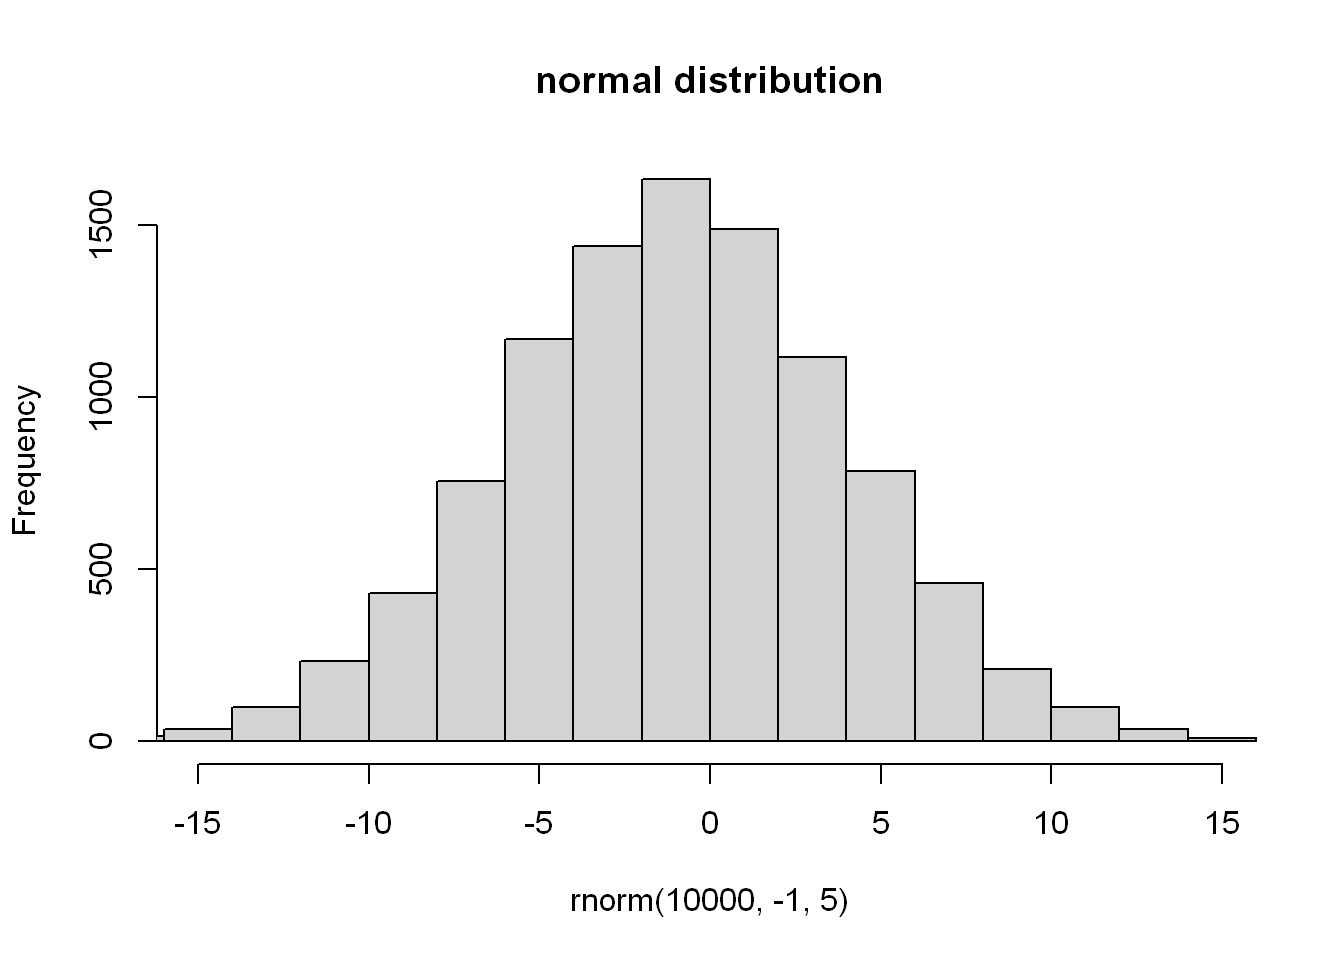
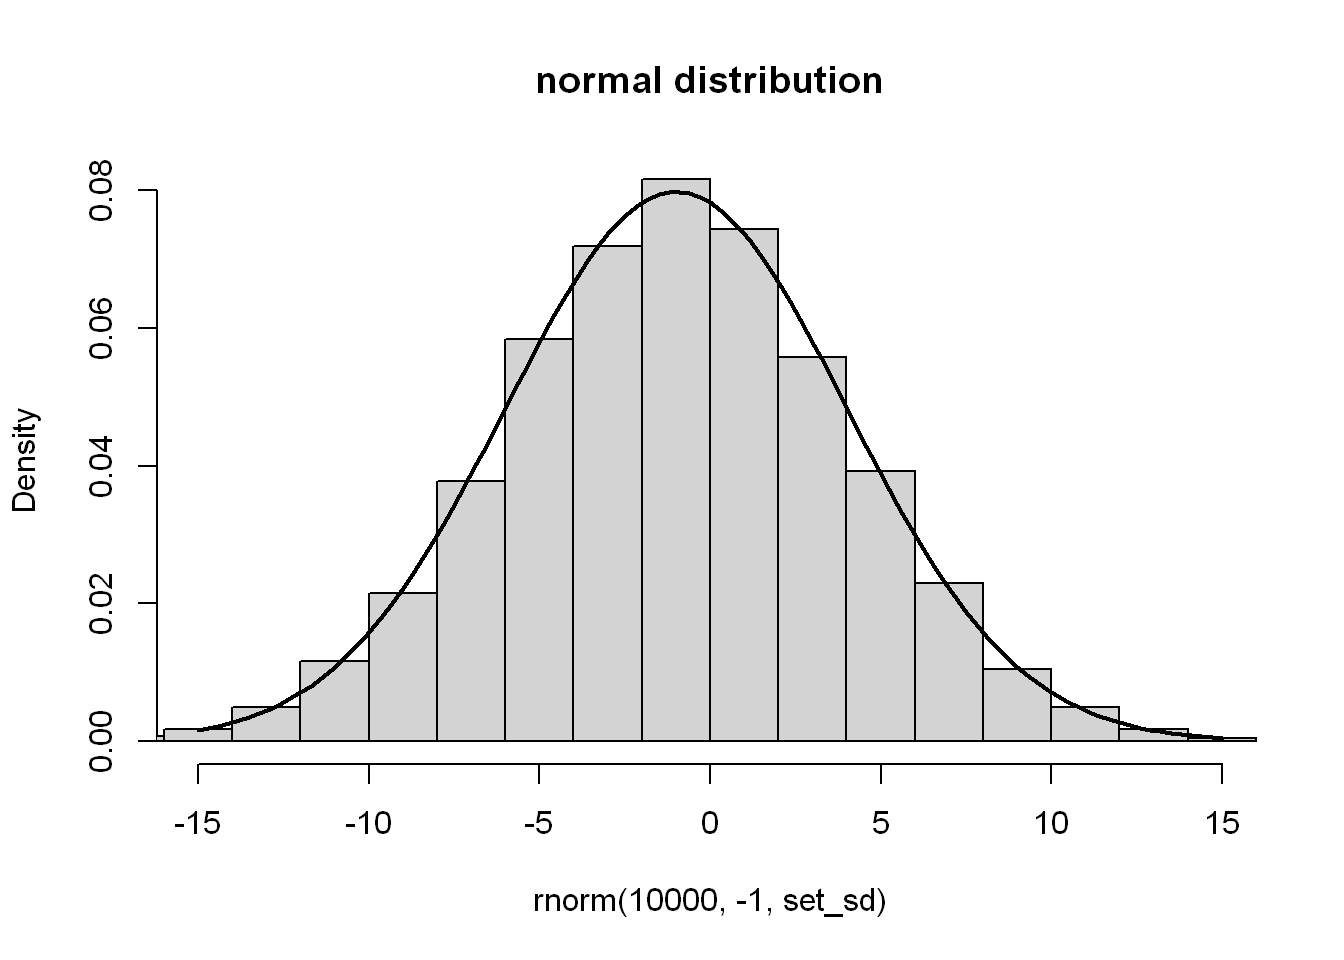
Update 2.5 response with standard deviationdiscussion

diff --git a/docs/numeric.html b/docs/numeric.html
@@ -411,41 +411,109 @@ pre > code.sourceCode > span > a:first-child::before { text-decoration: underlin
 </div>
 <p>Uh-oh, time to learn some maths (nice, actually). Here we go:</p>
 <div class="cell">
-<div class="sourceCode cell-code" id="cb24"><pre class="sourceCode r code-with-copy"><code class="sourceCode r"><span id="cb24-1"><a href="#cb24-1" aria-hidden="true" tabindex="-1"></a><span class="fu">hist</span>(</span>
-<span id="cb24-2"><a href="#cb24-2" aria-hidden="true" tabindex="-1"></a>  <span class="fu">rnorm</span>(<span class="dv">10000</span>, <span class="sc">-</span><span class="dv">1</span>, <span class="dv">5</span>), </span>
-<span id="cb24-3"><a href="#cb24-3" aria-hidden="true" tabindex="-1"></a>     <span class="at">main =</span> <span class="st">"normal distribution"</span>,</span>
-<span id="cb24-4"><a href="#cb24-4" aria-hidden="true" tabindex="-1"></a>     <span class="at">xlim =</span> <span class="fu">c</span>(<span class="sc">-</span><span class="dv">15</span>, <span class="dv">15</span>)</span>
-<span id="cb24-5"><a href="#cb24-5" aria-hidden="true" tabindex="-1"></a>)</span></code><button title="Copy to Clipboard" class="code-copy-button"><i class="bi"></i></button></pre></div>
+<div class="sourceCode cell-code" id="cb24"><pre class="sourceCode r code-with-copy"><code class="sourceCode r"><span id="cb24-1"><a href="#cb24-1" aria-hidden="true" tabindex="-1"></a>set_sd <span class="ot">&lt;-</span> <span class="dv">5</span></span>
+<span id="cb24-2"><a href="#cb24-2" aria-hidden="true" tabindex="-1"></a></span>
+<span id="cb24-3"><a href="#cb24-3" aria-hidden="true" tabindex="-1"></a><span class="fu">hist</span>(</span>
+<span id="cb24-4"><a href="#cb24-4" aria-hidden="true" tabindex="-1"></a>  <span class="fu">rnorm</span>(<span class="dv">10000</span>, <span class="sc">-</span><span class="dv">1</span>, set_sd), </span>
+<span id="cb24-5"><a href="#cb24-5" aria-hidden="true" tabindex="-1"></a>  <span class="at">main =</span> <span class="st">"normal distribution"</span>,</span>
+<span id="cb24-6"><a href="#cb24-6" aria-hidden="true" tabindex="-1"></a>  <span class="at">xlim =</span> <span class="fu">c</span>(<span class="sc">-</span><span class="dv">3</span> <span class="sc">*</span> set_sd, <span class="dv">3</span> <span class="sc">*</span> set_sd),</span>
+<span id="cb24-7"><a href="#cb24-7" aria-hidden="true" tabindex="-1"></a>  <span class="at">probability =</span> <span class="cn">TRUE</span></span>
+<span id="cb24-8"><a href="#cb24-8" aria-hidden="true" tabindex="-1"></a>)</span>
+<span id="cb24-9"><a href="#cb24-9" aria-hidden="true" tabindex="-1"></a></span>
+<span id="cb24-10"><a href="#cb24-10" aria-hidden="true" tabindex="-1"></a>x <span class="ot">&lt;-</span> <span class="fu">seq</span>(<span class="sc">-</span><span class="dv">3</span> <span class="sc">*</span> set_sd, <span class="dv">3</span> <span class="sc">*</span> set_sd, <span class="at">length.out=</span><span class="dv">101</span>) </span>
+<span id="cb24-11"><a href="#cb24-11" aria-hidden="true" tabindex="-1"></a><span class="fu">lines</span>(x, <span class="fu">dnorm</span>(x,<span class="sc">-</span><span class="dv">1</span>, set_sd), <span class="at">lwd=</span><span class="dv">2</span>) </span></code><button title="Copy to Clipboard" class="code-copy-button"><i class="bi"></i></button></pre></div>
 <div class="cell-output-display">
 <p><img src="numeric_files/figure-html/rnorm-1.png" class="img-fluid" width="672"></p>
 </div>
 </div>
-<p>So, as I understand it here the mean, median and mode<a href="#fn1" class="footnote-ref" id="fnref1" role="doc-noteref"><sup>1</sup></a> of the distribution should approximate to the second argument, <span class="math inline">\(-1\)</span>. Then just over <span class="math inline">\(2/3\)</span> should be within <span class="math inline">\(5\)</span> (the standard deviation) either side of that, and <em>almost</em> all should be with <span class="math inline">\(15\)</span> (3 standard deviations). I used <code>xlim</code> to cut the axis to <span class="math inline">\(-15\)</span> to <span class="math inline">\(15\)</span>, but you can see the edge of remaining bins creep in.</p>
+<p>So, as I understand it here the mean, median and mode<a href="#fn1" class="footnote-ref" id="fnref1" role="doc-noteref"><sup>1</sup></a> of the distribution should approximate to the second argument, <span class="math inline">\(-1\)</span>. Then just over <span class="math inline">\(2/3\)</span> should be within <span class="math inline">\(5\)</span> (the standard deviation) either side of that, and <em>almost</em> all should be with <span class="math inline">\(15\)</span> (3 standard deviations). I used <code>xlim</code> to cut the axis to <span class="math inline">\(-15\)</span> to <span class="math inline">\(15\)</span>, but you can see the edge of remaining bins creep in. Aha, like I said, I don’t know statistics.</p>
+<p>I need to go on a tangent and finally find out what standard deviation is.</p>
 <div class="cell">
-<div class="sourceCode cell-code" id="cb25"><pre class="sourceCode r code-with-copy"><code class="sourceCode r"><span id="cb25-1"><a href="#cb25-1" aria-hidden="true" tabindex="-1"></a><span class="fu">hist</span>(</span>
-<span id="cb25-2"><a href="#cb25-2" aria-hidden="true" tabindex="-1"></a>  <span class="fu">runif</span>(<span class="dv">10000</span>, <span class="dv">0</span>, <span class="dv">1</span>),</span>
-<span id="cb25-3"><a href="#cb25-3" aria-hidden="true" tabindex="-1"></a>  <span class="at">col =</span> <span class="fu">c</span>(<span class="st">"red"</span>, <span class="st">"orange"</span>, <span class="st">"green"</span>, <span class="st">"yellow"</span>, <span class="st">"blue"</span>, <span class="st">"purple"</span>, <span class="st">"violet"</span>),</span>
-<span id="cb25-4"><a href="#cb25-4" aria-hidden="true" tabindex="-1"></a>  <span class="at">breaks =</span> <span class="dv">7</span> <span class="sc">*</span> <span class="dv">7</span>,</span>
-<span id="cb25-5"><a href="#cb25-5" aria-hidden="true" tabindex="-1"></a>  <span class="at">main =</span> <span class="st">"a uniform rainbow"</span></span>
-<span id="cb25-6"><a href="#cb25-6" aria-hidden="true" tabindex="-1"></a>)</span></code><button title="Copy to Clipboard" class="code-copy-button"><i class="bi"></i></button></pre></div>
+<div class="sourceCode cell-code" id="cb25"><pre class="sourceCode r code-with-copy"><code class="sourceCode r"><span id="cb25-1"><a href="#cb25-1" aria-hidden="true" tabindex="-1"></a><span class="fu">body</span>(sd)</span></code><button title="Copy to Clipboard" class="code-copy-button"><i class="bi"></i></button></pre></div>
+<div class="cell-output cell-output-stdout">
+<pre><code>sqrt(var(if (is.vector(x) || is.factor(x)) x else as.double(x), 
+    na.rm = na.rm))</code></pre>
+</div>
+</div>
+<p>The square root of the variance, hey? The body of <code>var</code> isn’t much help because it calls some C or C++ function. Looking it up, variance is a measure of how dispersed a data set is. Standard deviation is too, but perhaps sits at a more convenient range of values for doing other things with the value. Variance is the mean of the squares of the distance from the mean. Ah, I’m going to need to try that to figure it out.</p>
+<div class="cell">
+<div class="sourceCode cell-code" id="cb27"><pre class="sourceCode r code-with-copy"><code class="sourceCode r"><span id="cb27-1"><a href="#cb27-1" aria-hidden="true" tabindex="-1"></a><span class="fu">var</span>(<span class="dv">1</span><span class="sc">:</span><span class="dv">100</span>)</span></code><button title="Copy to Clipboard" class="code-copy-button"><i class="bi"></i></button></pre></div>
+<div class="cell-output cell-output-stdout">
+<pre><code>[1] 841.6667</code></pre>
+</div>
+<div class="sourceCode cell-code" id="cb29"><pre class="sourceCode r code-with-copy"><code class="sourceCode r"><span id="cb29-1"><a href="#cb29-1" aria-hidden="true" tabindex="-1"></a>my_var <span class="ot">&lt;-</span> <span class="cf">function</span>(x) <span class="fu">mean</span>((x <span class="sc">-</span> <span class="fu">mean</span>(x))<span class="sc">^</span><span class="dv">2</span>)</span>
+<span id="cb29-2"><a href="#cb29-2" aria-hidden="true" tabindex="-1"></a></span>
+<span id="cb29-3"><a href="#cb29-3" aria-hidden="true" tabindex="-1"></a><span class="fu">my_var</span>(<span class="dv">1</span><span class="sc">:</span><span class="dv">100</span>)</span></code><button title="Copy to Clipboard" class="code-copy-button"><i class="bi"></i></button></pre></div>
+<div class="cell-output cell-output-stdout">
+<pre><code>[1] 833.25</code></pre>
+</div>
+</div>
+<p>I got close, but not quite right, hmmm. Another definition specifies taking the sum of the squares of the distance by mean and dividing by <span class="math inline">\(n - 1\)</span> where n is the number of numbers. So let’s try that instead of the final mean (which would be the sum divided by n).</p>
+<div class="cell">
+<div class="sourceCode cell-code" id="cb31"><pre class="sourceCode r code-with-copy"><code class="sourceCode r"><span id="cb31-1"><a href="#cb31-1" aria-hidden="true" tabindex="-1"></a>my_var2 <span class="ot">&lt;-</span> <span class="cf">function</span>(x) <span class="fu">sum</span>((x <span class="sc">-</span> <span class="fu">mean</span>(x))<span class="sc">^</span><span class="dv">2</span>) <span class="sc">/</span> (<span class="fu">length</span>(x) <span class="sc">-</span> <span class="dv">1</span>)</span>
+<span id="cb31-2"><a href="#cb31-2" aria-hidden="true" tabindex="-1"></a></span>
+<span id="cb31-3"><a href="#cb31-3" aria-hidden="true" tabindex="-1"></a><span class="fu">my_var2</span>(<span class="dv">1</span><span class="sc">:</span><span class="dv">100</span>)</span></code><button title="Copy to Clipboard" class="code-copy-button"><i class="bi"></i></button></pre></div>
+<div class="cell-output cell-output-stdout">
+<pre><code>[1] 841.6667</code></pre>
+</div>
+</div>
+<p>Aha! But there does seem to be two definitions, I’ll have to revisit that. Anyway, so then we just need to take the square root:</p>
+<div class="cell">
+<div class="sourceCode cell-code" id="cb33"><pre class="sourceCode r code-with-copy"><code class="sourceCode r"><span id="cb33-1"><a href="#cb33-1" aria-hidden="true" tabindex="-1"></a>my_sd <span class="ot">&lt;-</span> <span class="cf">function</span>(x) <span class="fu">sqrt</span>(<span class="fu">my_var2</span>(x))</span>
+<span id="cb33-2"><a href="#cb33-2" aria-hidden="true" tabindex="-1"></a></span>
+<span id="cb33-3"><a href="#cb33-3" aria-hidden="true" tabindex="-1"></a><span class="fu">my_sd</span>(<span class="dv">1</span><span class="sc">:</span><span class="dv">100</span>)</span></code><button title="Copy to Clipboard" class="code-copy-button"><i class="bi"></i></button></pre></div>
+<div class="cell-output cell-output-stdout">
+<pre><code>[1] 29.01149</code></pre>
+</div>
+<div class="sourceCode cell-code" id="cb35"><pre class="sourceCode r code-with-copy"><code class="sourceCode r"><span id="cb35-1"><a href="#cb35-1" aria-hidden="true" tabindex="-1"></a><span class="fu">sd</span>(<span class="dv">1</span><span class="sc">:</span><span class="dv">100</span>)</span></code><button title="Copy to Clipboard" class="code-copy-button"><i class="bi"></i></button></pre></div>
+<div class="cell-output cell-output-stdout">
+<pre><code>[1] 29.01149</code></pre>
+</div>
+</div>
+<p>Neat. Okay, it makes sense to me that distance from the mean would be used to present deviation, but I’m not quite what the rest is for. I can see that taking the square resolves negative deviation and the square root at the end somewhat rebalances it. If that were the only goal, then why wouldn’t the absolute differences be used? Something like:</p>
+<div class="cell">
+<div class="sourceCode cell-code" id="cb37"><pre class="sourceCode r code-with-copy"><code class="sourceCode r"><span id="cb37-1"><a href="#cb37-1" aria-hidden="true" tabindex="-1"></a>absolute_deviation <span class="ot">&lt;-</span> <span class="cf">function</span>(x) {</span>
+<span id="cb37-2"><a href="#cb37-2" aria-hidden="true" tabindex="-1"></a>  <span class="fu">mean</span>(<span class="fu">abs</span>(x <span class="sc">-</span> <span class="fu">mean</span>(x)))</span>
+<span id="cb37-3"><a href="#cb37-3" aria-hidden="true" tabindex="-1"></a>}</span>
+<span id="cb37-4"><a href="#cb37-4" aria-hidden="true" tabindex="-1"></a></span>
+<span id="cb37-5"><a href="#cb37-5" aria-hidden="true" tabindex="-1"></a><span class="fu">absolute_deviation</span>(<span class="dv">1</span><span class="sc">:</span><span class="dv">100</span>)</span></code><button title="Copy to Clipboard" class="code-copy-button"><i class="bi"></i></button></pre></div>
+<div class="cell-output cell-output-stdout">
+<pre><code>[1] 25</code></pre>
+</div>
+</div>
+<p>Maybe that could work? Well, apparently it is a thing - <a href="https://en.wikipedia.org/wiki/Average_absolute_deviation">Average Absolute Deviation</a>, but I suppose for now I just have to accept that standard deviation is just that, standard.</p>
+<div class="cell">
+<div class="sourceCode cell-code" id="cb39"><pre class="sourceCode r code-with-copy"><code class="sourceCode r"><span id="cb39-1"><a href="#cb39-1" aria-hidden="true" tabindex="-1"></a>unif_min <span class="ot">&lt;-</span> <span class="sc">-</span><span class="dv">1</span></span>
+<span id="cb39-2"><a href="#cb39-2" aria-hidden="true" tabindex="-1"></a>unif_max <span class="ot">&lt;-</span> <span class="dv">1</span></span>
+<span id="cb39-3"><a href="#cb39-3" aria-hidden="true" tabindex="-1"></a></span>
+<span id="cb39-4"><a href="#cb39-4" aria-hidden="true" tabindex="-1"></a><span class="fu">hist</span>(</span>
+<span id="cb39-5"><a href="#cb39-5" aria-hidden="true" tabindex="-1"></a>  <span class="fu">runif</span>(<span class="dv">10000</span>, unif_min, unif_max),</span>
+<span id="cb39-6"><a href="#cb39-6" aria-hidden="true" tabindex="-1"></a>  <span class="at">col =</span> <span class="fu">c</span>(<span class="st">"red"</span>, <span class="st">"orange"</span>, <span class="st">"green"</span>, <span class="st">"yellow"</span>, <span class="st">"blue"</span>, <span class="st">"purple"</span>, <span class="st">"violet"</span>),</span>
+<span id="cb39-7"><a href="#cb39-7" aria-hidden="true" tabindex="-1"></a>  <span class="at">breaks =</span> <span class="dv">7</span> <span class="sc">*</span> <span class="dv">7</span>,</span>
+<span id="cb39-8"><a href="#cb39-8" aria-hidden="true" tabindex="-1"></a>  <span class="at">main =</span> <span class="st">"a uniform rainbow"</span>,</span>
+<span id="cb39-9"><a href="#cb39-9" aria-hidden="true" tabindex="-1"></a>  <span class="at">probability =</span> <span class="cn">TRUE</span></span>
+<span id="cb39-10"><a href="#cb39-10" aria-hidden="true" tabindex="-1"></a>)</span>
+<span id="cb39-11"><a href="#cb39-11" aria-hidden="true" tabindex="-1"></a></span>
+<span id="cb39-12"><a href="#cb39-12" aria-hidden="true" tabindex="-1"></a>x <span class="ot">&lt;-</span> <span class="fu">seq</span>(unif_min, unif_max, <span class="at">length.out =</span> <span class="dv">10</span>)</span>
+<span id="cb39-13"><a href="#cb39-13" aria-hidden="true" tabindex="-1"></a><span class="fu">lines</span>(x, <span class="fu">dunif</span>(x, unif_min, unif_max), <span class="at">lwd =</span> <span class="dv">2</span>)</span></code><button title="Copy to Clipboard" class="code-copy-button"><i class="bi"></i></button></pre></div>
 <div class="cell-output-display">
 <p><img src="numeric_files/figure-html/runif-1.png" class="img-fluid" width="672"></p>
 </div>
 </div>
 <p>He <em>did</em> say to play with <code>col</code> (colours) and <code>breaks</code> (number of bins). I note that <code>n = 10000</code> seems enough to really see the expected distribution take shape, but it’s not so clear at e.g.&nbsp;<code>n = 1000</code> and especially <code>n = 100</code>. Though even at 10000, as you get more breaks/bins like this, the variation becomes more visible again.</p>
 <div class="cell">
-<div class="sourceCode cell-code" id="cb26"><pre class="sourceCode r code-with-copy"><code class="sourceCode r"><span id="cb26-1"><a href="#cb26-1" aria-hidden="true" tabindex="-1"></a><span class="fu">par</span>(<span class="at">mfrow =</span> <span class="fu">c</span>(<span class="dv">2</span>, <span class="dv">2</span>))</span>
-<span id="cb26-2"><a href="#cb26-2" aria-hidden="true" tabindex="-1"></a><span class="fu">hist</span>(<span class="fu">rbeta</span>(<span class="dv">10000</span>, <span class="fl">0.5</span>, <span class="fl">0.5</span>), <span class="at">main =</span> <span class="st">"0.5s are high at the edges"</span>)</span>
-<span id="cb26-3"><a href="#cb26-3" aria-hidden="true" tabindex="-1"></a><span class="fu">hist</span>(<span class="fu">rbeta</span>(<span class="dv">10000</span>, <span class="dv">1</span>, <span class="dv">1</span>), <span class="at">main =</span> <span class="st">"1s are roughly uniform"</span>)</span>
-<span id="cb26-4"><a href="#cb26-4" aria-hidden="true" tabindex="-1"></a><span class="fu">hist</span>(<span class="fu">rbeta</span>(<span class="dv">10000</span>, <span class="dv">2</span>, <span class="dv">2</span>), <span class="at">main =</span> <span class="st">"2s are low at the edges"</span>)</span>
-<span id="cb26-5"><a href="#cb26-5" aria-hidden="true" tabindex="-1"></a><span class="fu">hist</span>(<span class="fu">rbeta</span>(<span class="dv">10000</span>, <span class="fl">0.5</span>, <span class="dv">2</span>), <span class="at">main =</span> <span class="st">"we can go from one extreme to the other"</span>)</span></code><button title="Copy to Clipboard" class="code-copy-button"><i class="bi"></i></button></pre></div>
+<div class="sourceCode cell-code" id="cb40"><pre class="sourceCode r code-with-copy"><code class="sourceCode r"><span id="cb40-1"><a href="#cb40-1" aria-hidden="true" tabindex="-1"></a><span class="fu">par</span>(<span class="at">mfrow =</span> <span class="fu">c</span>(<span class="dv">2</span>, <span class="dv">2</span>))</span>
+<span id="cb40-2"><a href="#cb40-2" aria-hidden="true" tabindex="-1"></a><span class="fu">hist</span>(<span class="fu">rbeta</span>(<span class="dv">10000</span>, <span class="fl">0.5</span>, <span class="fl">0.5</span>), <span class="at">main =</span> <span class="st">"0.5s are high at the edges"</span>)</span>
+<span id="cb40-3"><a href="#cb40-3" aria-hidden="true" tabindex="-1"></a><span class="fu">hist</span>(<span class="fu">rbeta</span>(<span class="dv">10000</span>, <span class="dv">1</span>, <span class="dv">1</span>), <span class="at">main =</span> <span class="st">"1s are roughly uniform"</span>)</span>
+<span id="cb40-4"><a href="#cb40-4" aria-hidden="true" tabindex="-1"></a><span class="fu">hist</span>(<span class="fu">rbeta</span>(<span class="dv">10000</span>, <span class="dv">2</span>, <span class="dv">2</span>), <span class="at">main =</span> <span class="st">"2s are low at the edges"</span>)</span>
+<span id="cb40-5"><a href="#cb40-5" aria-hidden="true" tabindex="-1"></a><span class="fu">hist</span>(<span class="fu">rbeta</span>(<span class="dv">10000</span>, <span class="fl">0.5</span>, <span class="dv">2</span>), <span class="at">main =</span> <span class="st">"we can go from one extreme to the other"</span>)</span></code><button title="Copy to Clipboard" class="code-copy-button"><i class="bi"></i></button></pre></div>
 <div class="cell-output-display">
 <p><img src="numeric_files/figure-html/rbeta-1.png" class="img-fluid" width="672"></p>
 </div>
 </div>
 <p>I’m not really sure what’s going on here. Roughly I understand that it produces a distribution between 0 and 1, where <code>shape1</code> perhaps has more influence closer to 0 and <code>shape2</code> closer to 1. The higher the number, the lower the density at its respective end of the distribution.</p>
 <div class="cell">
-<div class="sourceCode cell-code" id="cb27"><pre class="sourceCode r code-with-copy"><code class="sourceCode r"><span id="cb27-1"><a href="#cb27-1" aria-hidden="true" tabindex="-1"></a><span class="fu">hist</span>(<span class="fu">rexp</span>(<span class="dv">10000</span>, <span class="dv">10</span>), <span class="at">main =</span> <span class="st">"exponential distribution"</span>)</span></code><button title="Copy to Clipboard" class="code-copy-button"><i class="bi"></i></button></pre></div>
+<div class="sourceCode cell-code" id="cb41"><pre class="sourceCode r code-with-copy"><code class="sourceCode r"><span id="cb41-1"><a href="#cb41-1" aria-hidden="true" tabindex="-1"></a><span class="fu">hist</span>(<span class="fu">rexp</span>(<span class="dv">10000</span>, <span class="dv">10</span>), <span class="at">main =</span> <span class="st">"exponential distribution"</span>)</span></code><button title="Copy to Clipboard" class="code-copy-button"><i class="bi"></i></button></pre></div>
 <div class="cell-output-display">
 <p><img src="numeric_files/figure-html/rexp-1.png" class="img-fluid" width="672"></p>
 </div>
@@ -457,7 +525,7 @@ pre > code.sourceCode > span > a:first-child::before { text-decoration: underlin
 <section id="footnotes" class="footnotes footnotes-end-of-document" role="doc-endnotes">
 <hr>
 <ol>
-<li id="fn1"><p>I found that while R does provide <code>mean()</code> and <code>median()</code>, the function <code>mode()</code> is more akin to <code>typeof()</code> in providing the data type/mode. There is not a standard in-built function for it.<a href="#fnref1" class="footnote-back" role="doc-backlink">↩</a></p></li>
+<li id="fn1"><p>I found that while R does provide <code>mean()</code> and <code>median()</code>, the function <code>mode()</code> is more akin to <code>typeof()</code> in providing the data type/mode. There is not a standard in-built function for the statistical mode.<a href="#fnref1" class="footnote-back" role="doc-backlink">↩</a></p></li>
 </ol>
 </section>
 
